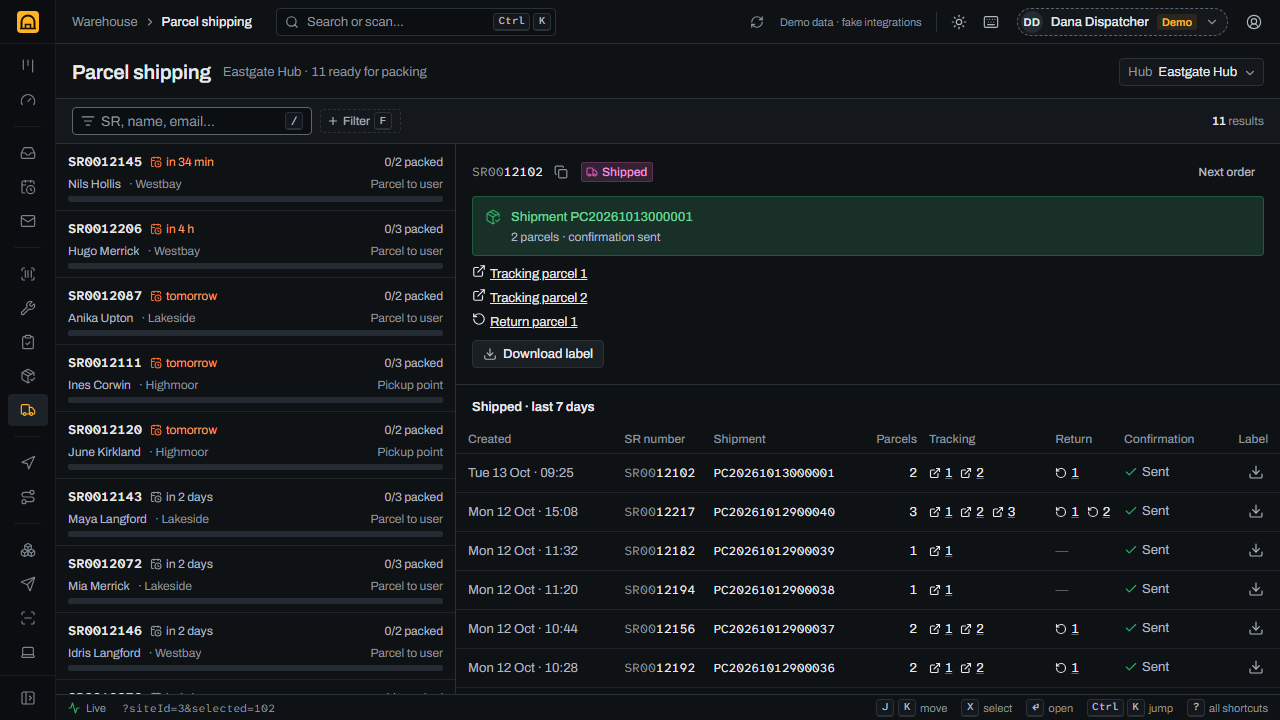
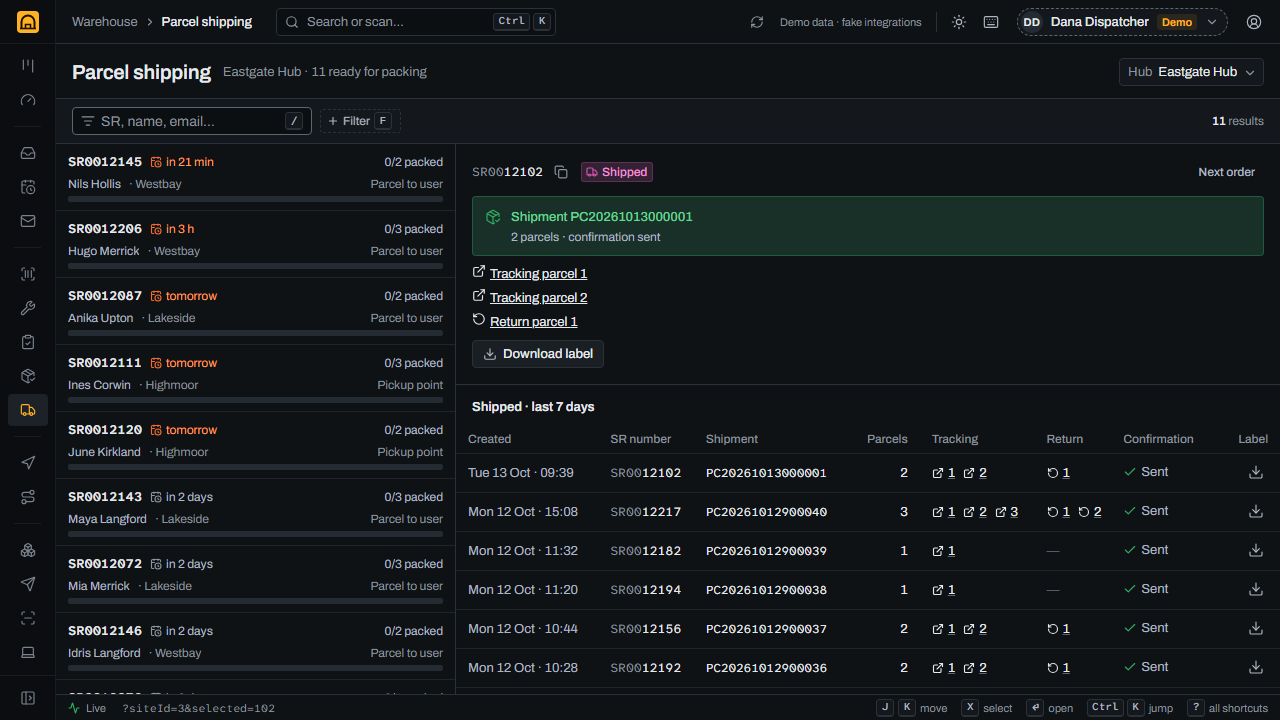
test(staging): drawer ship dialog e2e, muted scan cues in e2e, hub select stays controlled

diff --git a/e2e/staging-fulfilment.spec.ts b/e2e/staging-fulfilment.spec.ts
@@ -4,6 +4,17 @@ import { expect, persona, signIn, test } from './fixtures'
  * H3 · Order closing, Picking and Parcel shipping (SCREENS.md §5.3–5.5) as Dana; the drawer's
  * Staging/Shipping tabs; read-only views for the viewer.
  */
+
+// Headless Chromium on CI boxes without an audio device can crash later pages once the scan
+// stations have played their WebAudio cues, so the specs run with sound off (F2 in the app).
+test.beforeEach(async ({ page }) => {
+  await page.addInitScript(() => {
+    const key = 'hangar.prefs.v1'
+    const stored = JSON.parse(localStorage.getItem(key) ?? '{}') as Record<string, unknown>
+    localStorage.setItem(key, JSON.stringify({ ...stored, sound: false }))
+  })
+})
+
 test('dispatcher ticks the software checklist and closes an order', async ({ page }) => {
   await signIn(page, persona('dana'))
   await page.goto('/warehouse/order-closing?checklistComplete=false')
@@ -90,4 +101,34 @@ test('viewer sees the warehouse screens without mutating controls', async ({ pag
   await page.getByRole('list', { name: 'Parcel orders' }).getByRole('button').first().click()
   await expect(page.getByTestId('pack-scan')).toHaveCount(0)
   await expect(page.getByRole('button', { name: 'Create shipment' })).toHaveCount(0)
+})
+
+test('the drawer creates a shipment through the ship dialog (never the action endpoint)', async ({
+  page,
+}) => {
+  await signIn(page, persona('dana'))
+  await page.goto('/warehouse/parcel-shipping?siteId=3')
+  await page.getByRole('list', { name: 'Parcel orders' }).getByRole('button').nth(1).click()
+  const items = page.getByRole('list', { name: 'Items to pack' })
+  const tags = await items.locator('li .hg-mono').allTextContents()
+  const scan = page.getByTestId('pack-scan').getByRole('textbox')
+  for (const tag of tags) {
+    await scan.fill(tag.trim())
+    await scan.press('Enter')
+    await expect(page.getByText(/Packed|Already packed/).first()).toBeVisible()
+    await page.waitForTimeout(300)
+  }
+  await page.getByRole('button', { name: 'Open details' }).click()
+  const drawer = page.getByRole('complementary', { name: /^Service request SR/ })
+  await drawer.getByRole('button', { name: 'Create shipment' }).click()
+  const dialog = page.getByRole('dialog', { name: /Create shipment · SR/ })
+  await expect(dialog).toBeVisible()
+  await dialog.getByRole('switch', { name: 'Single combined parcel' }).click()
+  const download = page.waitForEvent('download').catch(() => null)
+  await dialog.getByRole('button', { name: 'Create shipment' }).click()
+  await expect(dialog.getByTestId('shipment-result')).toBeVisible()
+  await download
+  await page.screenshot({ path: 'docs/screenshots/staging/drawer-ship-dialog.png' })
+  await dialog.getByRole('button', { name: 'Done' }).click()
+  await expect(drawer.getByText('Shipped').first()).toBeVisible()
 })

diff --git a/e2e/staging-personalization.spec.ts b/e2e/staging-personalization.spec.ts
@@ -4,6 +4,17 @@ import { expect, persona, signIn, test } from './fixtures'
  * H3 · Personalization (SCREENS.md §5.2): Dana claims the first unclaimed request, assigns
  * every new device by scanning the FIFO suggestion and finishes; the viewer sees it read-only.
  */
+
+// Headless Chromium on CI boxes without an audio device can crash later pages once the scan
+// stations have played their WebAudio cues, so the specs run with sound off (F2 in the app).
+test.beforeEach(async ({ page }) => {
+  await page.addInitScript(() => {
+    const key = 'hangar.prefs.v1'
+    const stored = JSON.parse(localStorage.getItem(key) ?? '{}') as Record<string, unknown>
+    localStorage.setItem(key, JSON.stringify({ ...stored, sound: false }))
+  })
+})
+
 test('dispatcher claims, assigns by scan and finishes personalization', async ({ page }) => {
   await signIn(page, persona('dana'))
   await page.goto('/warehouse/personalization')

diff --git a/e2e/staging-installation-places.spec.ts b/e2e/staging-installation-places.spec.ts
@@ -5,6 +5,16 @@ import { expect, persona, signIn, test } from './fixtures'
  * H3 · Installation places (SCREENS.md §5.1): Theo shelves a goods-in device by scanning its
  * serial and a place (two values → one request), sees the verdict and undoes it.
  */
+
+// Headless Chromium on CI boxes without an audio device can crash later pages once the scan
+// stations have played their WebAudio cues, so the specs run with sound off (F2 in the app).
+test.beforeEach(async ({ page }) => {
+  await page.addInitScript(() => {
+    const key = 'hangar.prefs.v1'
+    const stored = JSON.parse(localStorage.getItem(key) ?? '{}') as Record<string, unknown>
+    localStorage.setItem(key, JSON.stringify({ ...stored, sound: false }))
+  })
+})
 interface Fixture {
   tables: {
     stock_locations: { id: number; code: string }[]

diff --git a/src/modules/staging/components/shipments-table.tsx b/src/modules/staging/components/shipments-table.tsx
@@ -53,7 +53,7 @@ export function ShipmentsTable({
   if (shipments.length === 0) return <>{empty}</>
   return (
     <div className="overflow-x-auto">
-      <table className="w-full text-sm" aria-label="Shipments">
+      <table className="w-full text-sm [&_td]:pr-3 [&_th]:pr-3" aria-label="Shipments">
         <thead className="text-left text-xs text-fg-3">
           <tr>
             <th className="px-3 py-1.5 font-medium">Created</th>

diff --git a/src/modules/staging/components/hub-select.tsx b/src/modules/staging/components/hub-select.tsx
@@ -16,7 +16,7 @@ export function HubSelect({
     <Select
       label="Hub"
       prefix="Hub"
-      value={value === undefined ? undefined : String(value)}
+      value={value === undefined ? '' : String(value)}
       onValueChange={(next) => onChange(Number(next))}
       options={hubs.map((hub) => ({ value: String(hub.id), label: hub.name }))}
       className={className}
